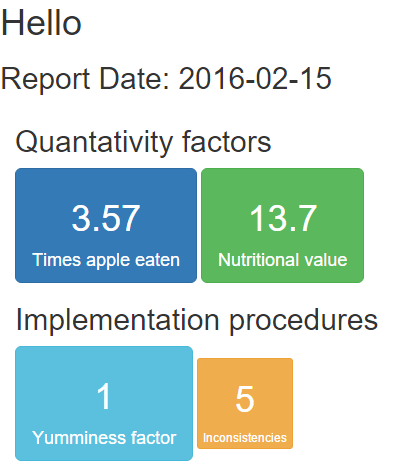
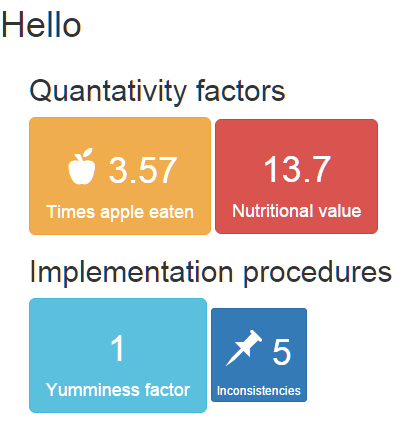
added transparency

diff --git a/example.html b/example.html
@@ -1,6 +1,6 @@
 <!DOCTYPE html><html lang="en"><head>
-  <meta name="viewport" content="width=device-width, initial-scale=1"><link rel="stylesheet" href="http://maxcdn.bootstrapcdn.com/bootstrap/3.3.6/css/bootstrap.min.css"></head><body><h1>Hello</h1><div class="container"><h2>Quantativity factors</h2><a href="https://en.wikipedia.org/wiki/Apple" role="button"  type="button" class="btn btn-warning btn-lg"><h1> <span class="glyphicon glyphicon-apple" aria-hidden="true"></span> 65</h1>Times apple eaten</a> <button type="button" class="btn btn-success btn-lg" title=" Apples are high in good things. If you eat it, these good things go into your body
-                       and further the cycle of good. Therefore, you should 
-                       eat 
+  <meta name="viewport" content="width=device-width, initial-scale=1"><link rel="stylesheet" href="http://maxcdn.bootstrapcdn.com/bootstrap/3.3.6/css/bootstrap.min.css"></head><body><h1>Hello</h1><div class="container"><h2>Quantativity factors</h2><a href="https://en.wikipedia.org/wiki/Apple" role="button"  type="button" class="btn btn-warning btn-lg"><h1> <span class="glyphicon glyphicon-apple" aria-hidden="true" style="opacity:0.5"></span> 65</h1>Times apple eaten</a> <button type="button" class="btn btn-success btn-lg" title=" Apples are high in good things. If you eat it, these good things go into your body
+                       and further the cycle of good. Therefore, you should
+                       eat
                        apples. " ><h1>93.7%</h1>Nutritional value</button></div> <div class="container"><h2>Implementation procedures</h2><button type="button" class="btn btn-info btn-lg" title=" While the yuminess is inferior to chocolate,
-                       it's still pretty friggin yummy. " ><h1>1</h1>Yumminess factor</button> <button type="button" class="btn btn-primary btn-xs"><h1> <span class="glyphicon glyphicon-pushpin" aria-hidden="true"></span> 5</h1>Inconsistencies</button></div></body></html>
+                       it's still pretty friggin yummy. " ><h1>1</h1>Yumminess factor</button> <button type="button" class="btn btn-primary btn-xs"><h1> <span class="glyphicon glyphicon-pushpin" aria-hidden="true" style="opacity:0.5"></span> 5</h1>Inconsistencies</button></div></body></html>

diff --git a/README.md b/README.md
@@ -66,3 +66,5 @@ For latest live version, please see here: http://htmlpreview.github.io/?https://
                   of the VALUE to the TARGET that, if above the ThresholdHigh will show as orange, and if not, as red
                         
 **Hover**			  Optional tooltip, or text that will show up when a user rests their mouse over the button.                      
+
+**alpha**             Optional transparency coefficient for the icon, a decimal from 0-1.
